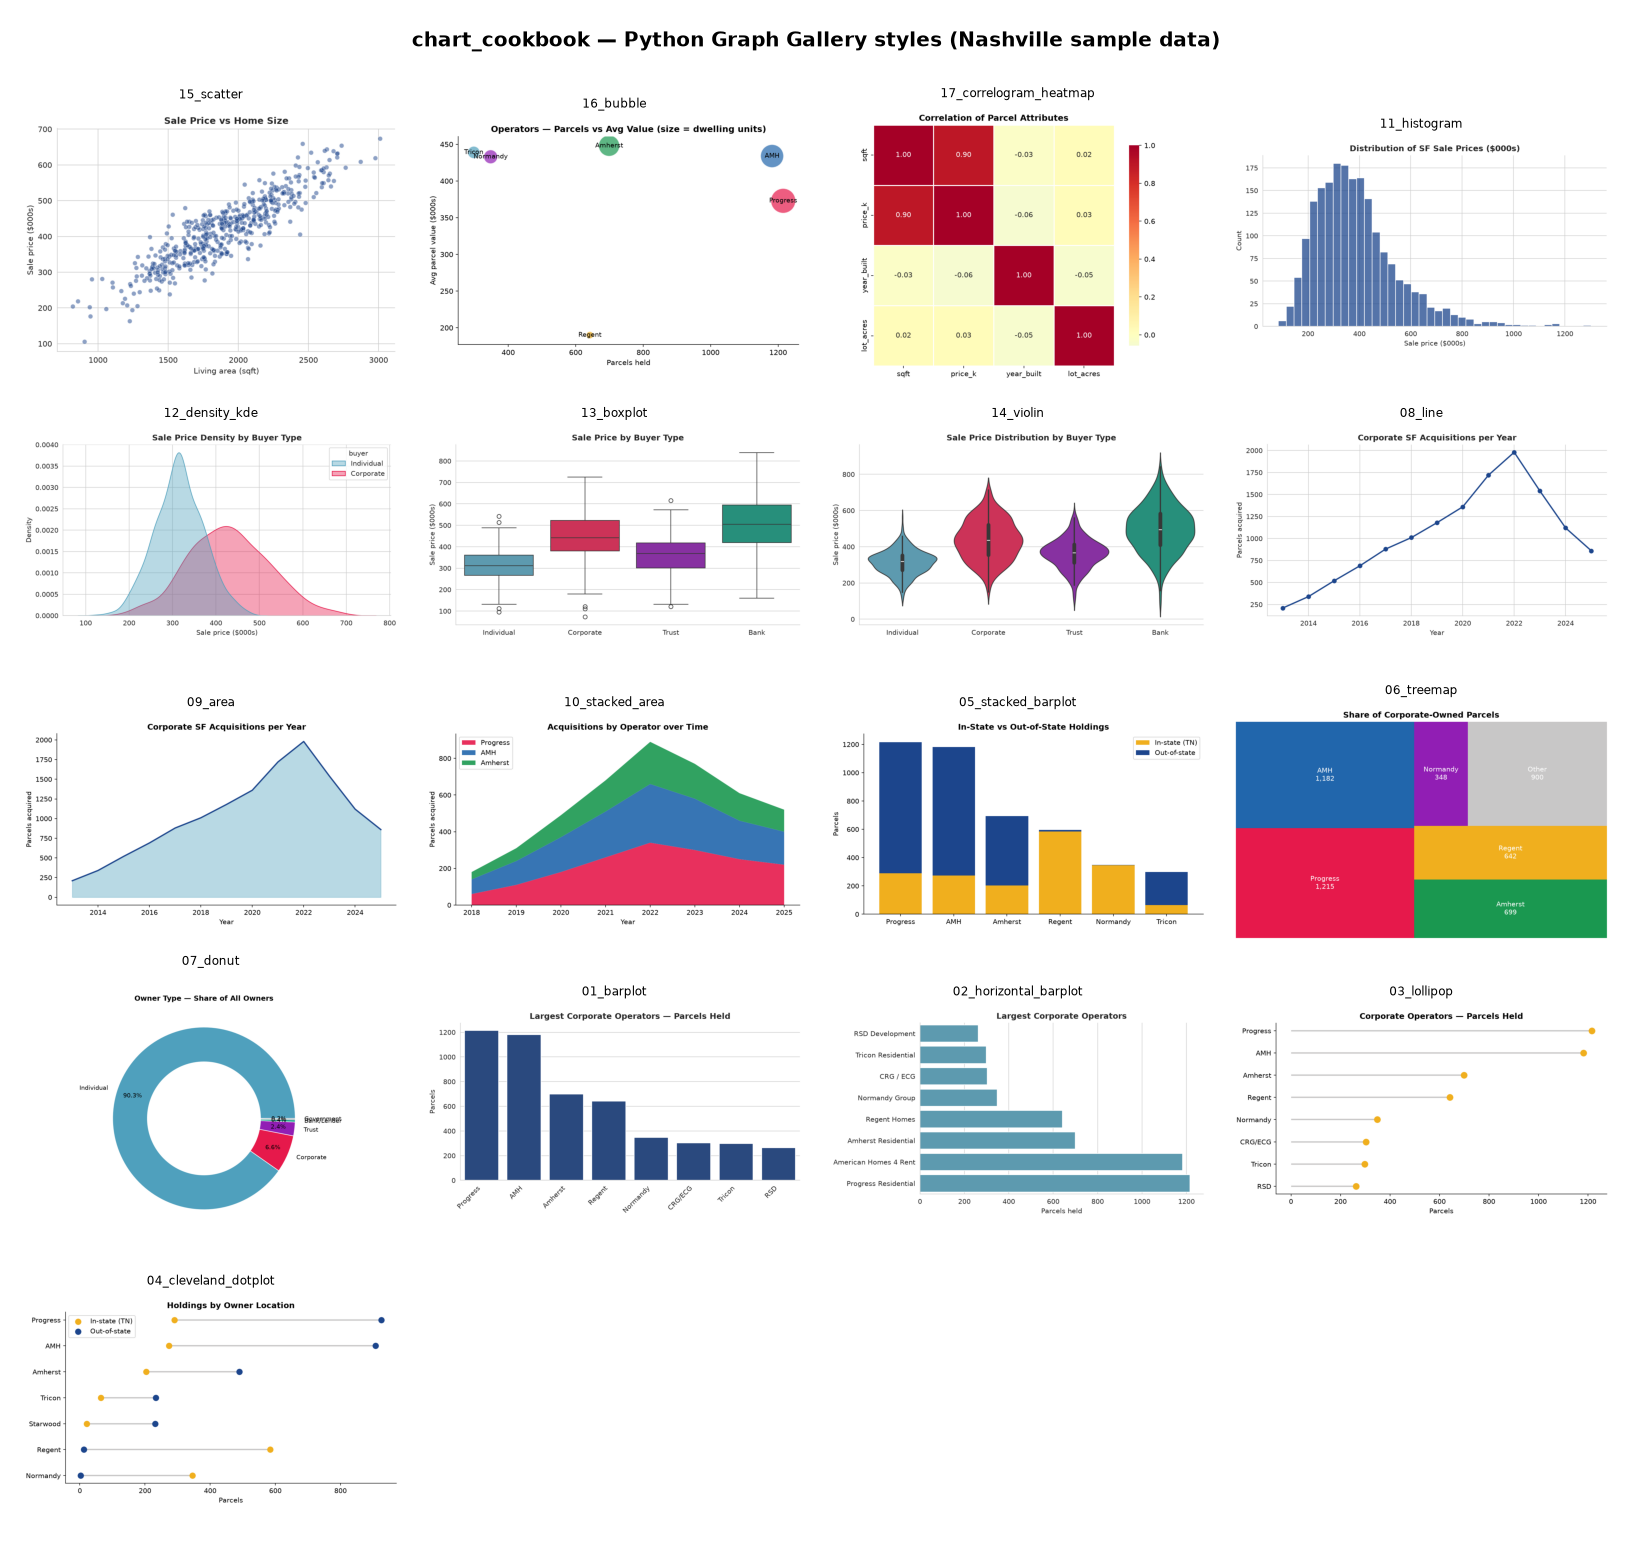
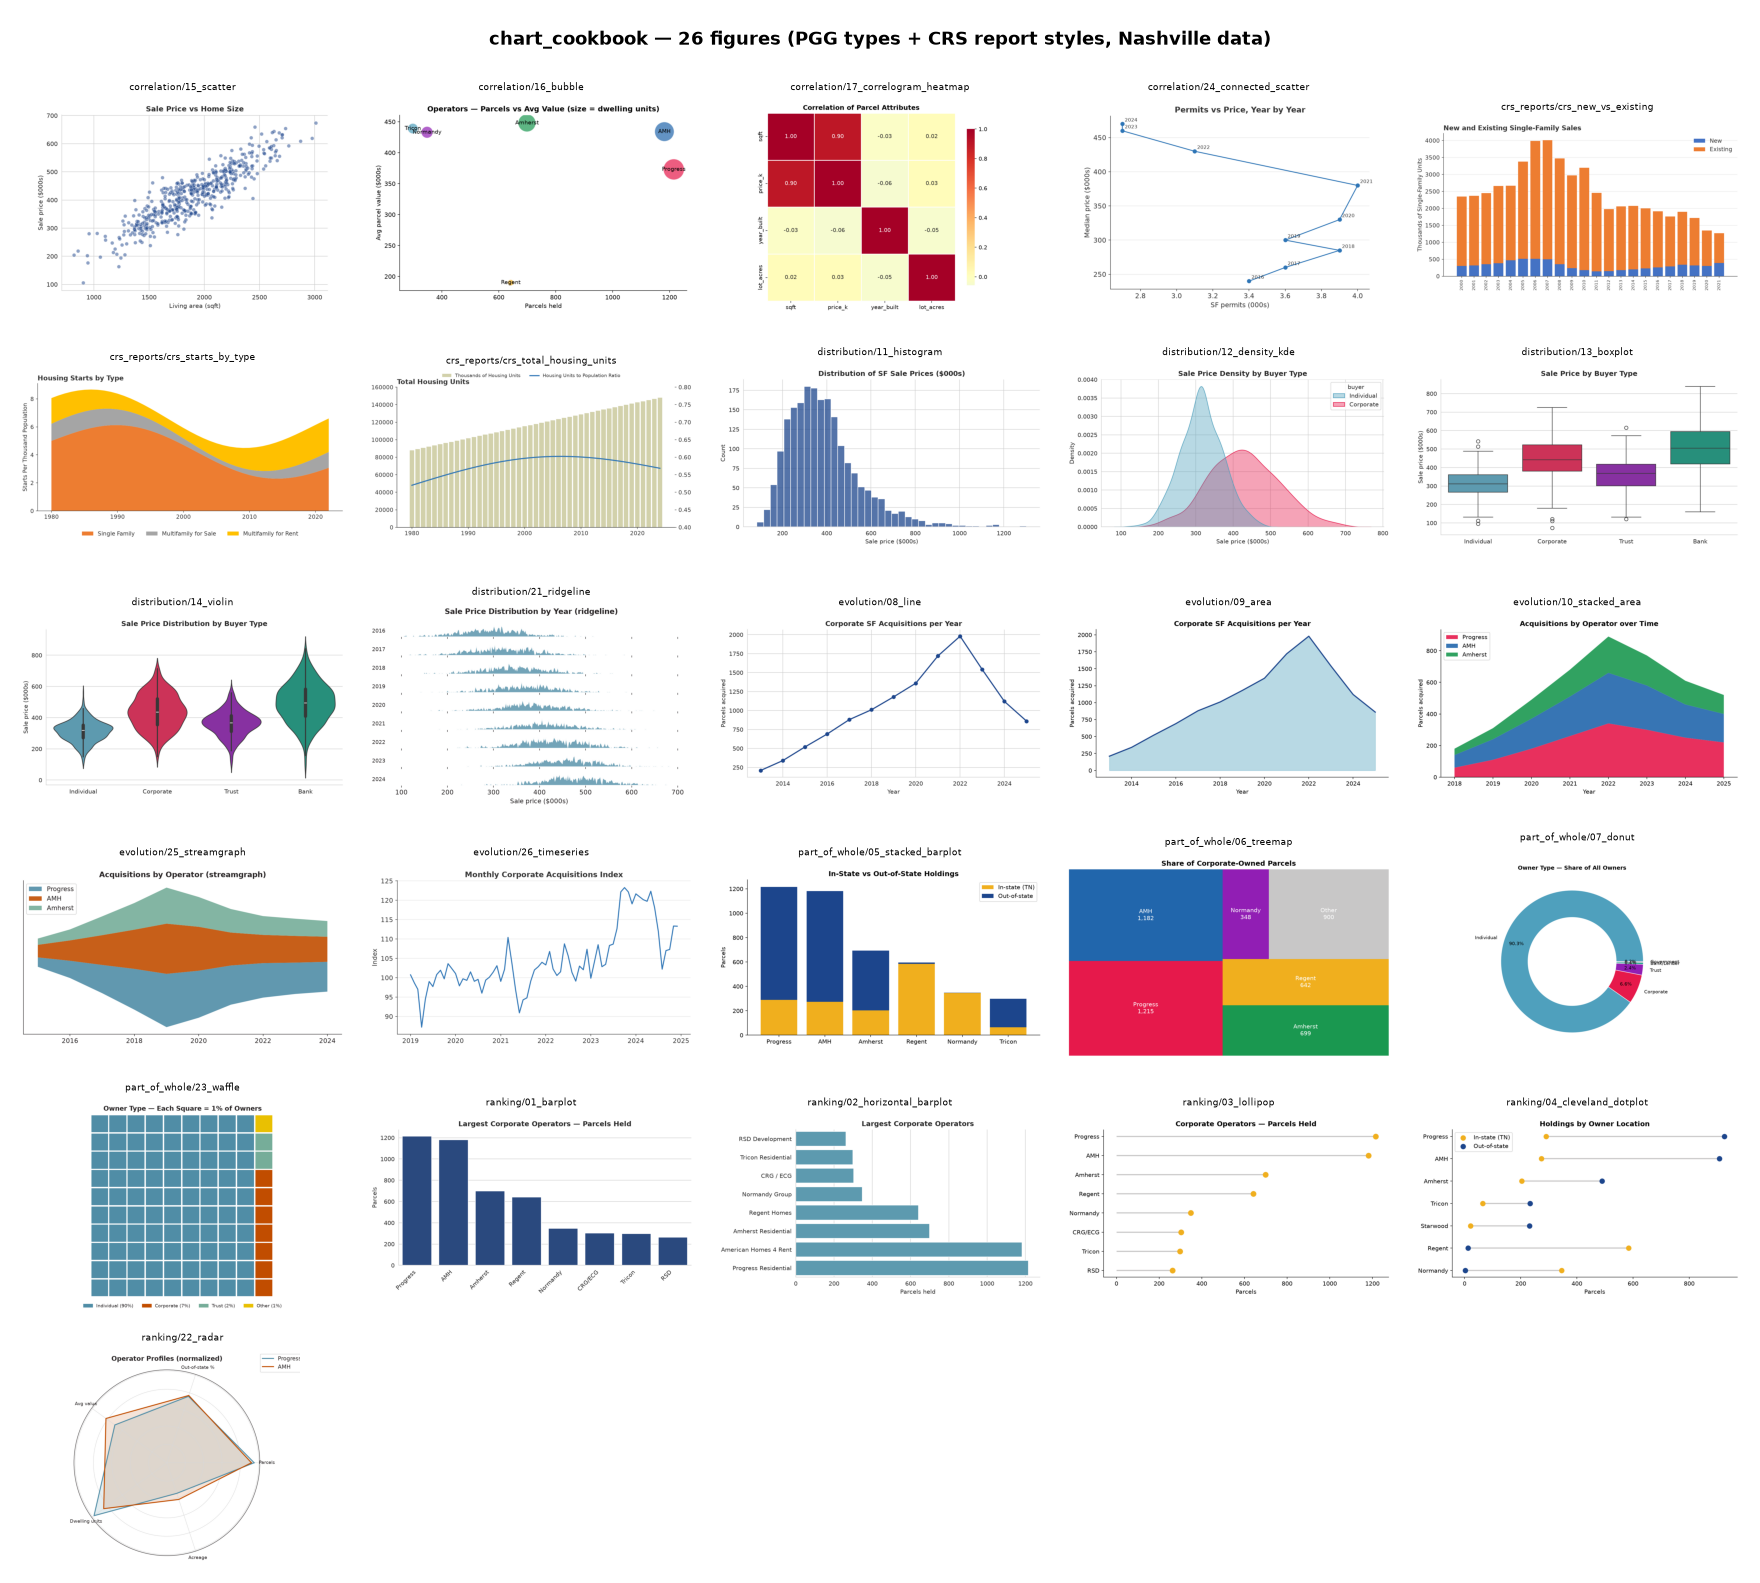
Expand chart_cookbook: house-style palettes, CRS figures, more chart types
- styles/won_styles.py: apply_style() with WON, HUD, JCHS (slate/orange/
  sage/mustard/plum) and CRS (steel/orange/tan) palettes + choropleth ramps.
- style_showcase.py: same charts across all palettes.
- python/crs_reports/: three signature CRS figures (total housing units with
  tan bars + ratio line, new-vs-existing stacked, starts-by-type area).
- 6 more PGG types: ridgeline, radar, waffle, connected scatter, streamgraph,
  timeseries. All 10 new scripts verified to render.

Claude-Session: https://claude.ai/code/session_01StgzA76LHz6w6vbXa78ZFR

diff --git a/chart_cookbook/styles/won_styles.py b/chart_cookbook/styles/won_styles.py
@@ -1,0 +1,84 @@
+"""
+Shared house-style palettes for the chart cookbook.
+
+Four styles are available; call apply_style(name) at the top of any script,
+BEFORE creating the figure, to set the matplotlib rcParams + color cycle:
+
+    from styles.won_styles import apply_style, palette
+    apply_style("jchs")            # or "crs", "won", "hud"
+    colors = palette("jchs")
+
+Styles
+------
+- "won"  : Who Owns Nashville brand (navy #1c458c + gold #f0af1e).
+- "hud"  : HUD county-chart look (grey card, dark plot frame, sans-serif).
+- "jchs" : Harvard Joint Center for Housing Studies (slate blue + burnt orange
+           + sage + mustard + plum). Read from the JCHS OOXML/CSS bundles.
+- "crs"  : Congressional Research Service report figures (Highcharts/Office
+           palette: steel blue, orange, grey, gold; tan bars for stock charts).
+"""
+import matplotlib as mpl
+from cycler import cycler
+
+PALETTES = {
+    # Who Owns Nashville brand + stable per-operator qualitative set
+    "won":  ["#1c458c", "#f0af1e", "#4fa0bd", "#d7263d", "#1a9850", "#911eb4", "#16a085", "#cf307a"],
+    # HUD default-theme series colors
+    "hud":  ["#AFD8F8", "#F6BD0F", "#8BBA00", "#1c458c", "#d7263d", "#5A5A5A"],
+    # Harvard JCHS core palette (ranked by use across 19 decks)
+    "jchs": ["#508DA6", "#C14D00", "#76AD99", "#E9C002", "#653052", "#002060", "#5A5A5A"],
+    # CRS / congress.gov Highcharts (Office-family) palette
+    "crs":  ["#2E75B6", "#ED7D31", "#A5A5A5", "#FFC000", "#4472C4", "#70AD47", "#C00000"],
+}
+
+# A few named accents scripts may want by hand
+ACCENTS = {
+    "jchs_slate": "#508DA6", "jchs_orange": "#C14D00", "jchs_sage": "#76AD99",
+    "jchs_mustard": "#E9C002", "jchs_plum": "#653052", "jchs_ink": "#231F20",
+    "crs_tan": "#D2D1AB", "crs_blue": "#2E75B6", "crs_orange": "#ED7D31",
+    "won_navy": "#1c458c", "won_gold": "#f0af1e",
+}
+
+# JCHS sequential ramps for choropleths (from the interactive bundles)
+RAMPS = {
+    "jchs_blue":   ["#D6E5EB", "#93BACB", "#659DB5", "#4E7686", "#507687"],
+    "jchs_orange": ["#F3C669", "#F09E3D", "#F89F5C", "#EA7923", "#C14D00"],
+    "won_ylorbr":  ["#ffffd4", "#fee391", "#fec44f", "#fe9929", "#cc4c02"],
+    "won_blues":   ["#eff3ff", "#bdd7e7", "#6baed6", "#3182bd", "#08519c"],
+}
+
+_TEXT = {"jchs": "#231F20", "crs": "#333333", "won": "#20303f", "hud": "#333333"}
+_GRID = {"jchs": "#D9D9D9", "crs": "#e6e6e6", "won": "#d6ddea", "hud": "#e6e6e6"}
+
+
+def palette(name="won"):
+    """Return the ordered list of series colors for a style."""
+    return list(PALETTES[name])
+
+
+def apply_style(name="won"):
+    """Set matplotlib rcParams + color cycle for the named house style."""
+    ink = _TEXT.get(name, "#333333")
+    grid = _GRID.get(name, "#e6e6e6")
+    mpl.rcParams.update({
+        "axes.prop_cycle": cycler(color=PALETTES[name]),
+        "figure.facecolor": "#ffffff",
+        "axes.facecolor": "#ffffff",
+        "axes.edgecolor": ink,
+        "axes.labelcolor": ink,
+        "axes.titlecolor": ink,
+        "axes.titleweight": "bold",
+        "axes.grid": True,
+        "axes.grid.axis": "y",
+        "grid.color": grid,
+        "grid.linewidth": 0.8,
+        "axes.spines.top": False,
+        "axes.spines.right": False,
+        "text.color": ink,
+        "xtick.color": ink,
+        "ytick.color": ink,
+        "font.size": 11,
+        "font.family": "sans-serif",
+        "font.sans-serif": ["Helvetica Neue", "Arial", "DejaVu Sans"],
+    })
+    return palette(name)

diff --git a/chart_cookbook/style_showcase.py b/chart_cookbook/style_showcase.py
@@ -1,0 +1,25 @@
+"""Renders the same bar, line, and stacked-bar in three house styles
+(WON, JCHS, CRS) so you can compare the color systems side by side."""
+import matplotlib; matplotlib.use("Agg")
+import os, sys; sys.path.insert(0, os.path.dirname(__file__))
+import matplotlib.pyplot as plt, numpy as np
+from styles.won_styles import palette
+styles = ["won", "jchs", "crs"]; titles = {"won":"Who Owns Nashville","jchs":"Harvard JCHS","crs":"CRS report"}
+ops = ["Progress","AMH","Amherst","Regent"]; par = [1215,1182,699,642]
+yrs = list(range(2018, 2025)); line = [880,1010,1180,1360,1720,1980,1540]
+tn = [290,274,204,584]; oos = [925,908,490,12]
+fig, axes = plt.subplots(3, 3, figsize=(12, 9))
+for r, st in enumerate(styles):
+    c = palette(st)
+    a0, a1, a2 = axes[r]
+    a0.bar(ops, par, color=c[0]); a0.set_title(f"{titles[st]} — bar", fontsize=10, fontweight="bold")
+    a1.plot(yrs, line, color=c[1] if st!='crs' else c[0], lw=2, marker="o"); a1.set_title("line", fontsize=10)
+    a2.bar(ops, tn, color=c[3] if st=='won' else c[0]); a2.bar(ops, oos, bottom=tn, color=c[0] if st=='won' else c[1])
+    a2.set_title("stacked", fontsize=10)
+    for a in axes[r]:
+        a.tick_params(labelsize=8)
+        for s in ["top","right"]: a.spines[s].set_visible(False)
+        a.grid(axis="y", color="#e6e6e6")
+        for lab in a.get_xticklabels(): lab.set_rotation(30); lab.set_ha("right")
+fig.suptitle("House-style comparison — same data, three palettes", fontsize=13, fontweight="bold")
+plt.tight_layout(rect=[0,0,1,.97]); plt.savefig("figures/style_showcase.png", dpi=130)

diff --git a/chart_cookbook/python/crs_reports/crs_new_vs_existing.py b/chart_cookbook/python/crs_reports/crs_new_vs_existing.py
@@ -1,0 +1,22 @@
+"""CRS 'New vs Existing Homes' style: stacked bars, blue = New, orange = Existing.
+For Davidson: split each year's SF sales by parcel year-built vs sale year
+(new = built within ~1-2 yrs of the transfer)."""
+import matplotlib; matplotlib.use("Agg")
+import sys, os; sys.path.insert(0, os.path.join(os.path.dirname(__file__), "..", ".."))
+import matplotlib.pyplot as plt, numpy as np
+from styles.won_styles import apply_style, palette
+apply_style("crs"); c = palette("crs")
+yrs = np.arange(2000, 2022)
+existing = np.array([2050,2050,2100,2280,2200,2870,3480,3510,3120,2730,3020,2320,
+                     1830,1880,1870,1770,1650,1470,1560,1400,1050,880])
+new =      np.array([300,320,350,380,470,510,510,500,350,240,180,140,150,180,200,
+                     230,260,290,340,320,300,390])
+fig, ax = plt.subplots(figsize=(9, 4.8))
+ax.bar(yrs, new, color=c[4], label="New")
+ax.bar(yrs, existing, bottom=new, color=c[1], label="Existing")
+ax.set_ylabel("Thousands of Single-Family Units")
+ax.set_title("New and Existing Single-Family Sales", fontweight="bold", loc="left")
+ax.legend(loc="upper right", frameon=False); ax.grid(False); ax.set_axisbelow(True)
+ax.yaxis.grid(True, color="#e6e6e6")
+plt.xticks(yrs, rotation=90, fontsize=8)
+plt.tight_layout(); plt.savefig("crs_new_vs_existing.png", dpi=150)

diff --git a/chart_cookbook/python/crs_reports/crs_total_housing_units.py b/chart_cookbook/python/crs_reports/crs_total_housing_units.py
@@ -1,0 +1,20 @@
+"""CRS 'Total Housing Units' style (R48892 Fig 1): tan bars for the level,
+blue line for the units-to-population ratio on a right axis. Dual-axis.
+Swap the sample series for Davidson totals + population."""
+import matplotlib; matplotlib.use("Agg")
+import sys, os; sys.path.insert(0, os.path.join(os.path.dirname(__file__), "..", ".."))
+import matplotlib.pyplot as plt, numpy as np
+from styles.won_styles import apply_style, ACCENTS
+apply_style("crs")
+yrs = np.arange(1980, 2025)
+units = np.linspace(88, 148, len(yrs)) * 1000            # thousands
+ratio = 0.52 + 0.06*np.sin(np.linspace(0, 3, len(yrs))) + np.linspace(0, .04, len(yrs))
+fig, ax = plt.subplots(figsize=(9, 4.6))
+ax.bar(yrs, units, color=ACCENTS["crs_tan"], width=.8, label="Thousands of Housing Units")
+ax.set_ylabel(""); ax.set_ylim(0, 160000); ax.grid(False)
+ax2 = ax.twinx()
+ax2.plot(yrs, ratio, color=ACCENTS["crs_blue"], lw=2.2, label="Housing Units to Population Ratio")
+ax2.set_ylim(0.4, 0.8); ax2.grid(False)
+ax.set_title("Total Housing Units", fontweight="bold", loc="left")
+fig.legend(loc="upper center", ncol=2, frameon=False, fontsize=9, bbox_to_anchor=(.5, 1.02))
+plt.tight_layout(); plt.savefig("crs_total_housing_units.png", dpi=150)

diff --git a/chart_cookbook/python/crs_reports/crs_starts_by_type.py b/chart_cookbook/python/crs_reports/crs_starts_by_type.py
@@ -1,0 +1,21 @@
+"""CRS/HUD 'Housing Starts by Type' style: stacked area, orange=SF,
+grey=MF for sale, gold=MF for rent, per 1,000 population."""
+import matplotlib; matplotlib.use("Agg")
+import sys, os; sys.path.insert(0, os.path.join(os.path.dirname(__file__), "..", ".."))
+import matplotlib.pyplot as plt, numpy as np
+from styles.won_styles import apply_style, palette
+apply_style("crs"); c = palette("crs")
+yrs = np.arange(1980, 2023)
+n = len(yrs); rng = np.random.default_rng(4)
+sf = 5 + 1.5*np.sin(np.linspace(0, 6, n)) - np.linspace(0, 1.5, n)
+sf = np.clip(sf, 1.8, None)
+mfs = np.clip(0.8 + 0.5*np.sin(np.linspace(1, 7, n)), 0.2, None)
+mfr = np.clip(1.2 + 0.7*np.sin(np.linspace(2, 8, n)) + np.linspace(0, .5, n), 0.3, None)
+fig, ax = plt.subplots(figsize=(9, 4.8))
+ax.stackplot(yrs, sf, mfs, mfr, colors=[c[1], c[2], c[3]],
+             labels=["Single Family", "Multifamily for Sale", "Multifamily for Rent"])
+ax.set_ylabel("Starts Per Thousand Population")
+ax.set_title("Housing Starts by Type", fontweight="bold", loc="left")
+ax.legend(loc="upper center", ncol=3, frameon=False, bbox_to_anchor=(.5, -.12))
+ax.grid(False)
+plt.tight_layout(); plt.savefig("crs_starts_by_type.png", dpi=150)

diff --git a/chart_cookbook/python/part_of_whole/23_waffle.py b/chart_cookbook/python/part_of_whole/23_waffle.py
@@ -1,0 +1,21 @@
+"""Waffle — PART OF WHOLE. Share of a total as a 10x10 grid of squares."""
+import matplotlib; matplotlib.use("Agg")
+import sys, os; sys.path.insert(0, os.path.join(os.path.dirname(__file__), "..", ".."))
+import matplotlib.pyplot as plt, numpy as np
+from styles.won_styles import apply_style, palette
+apply_style("jchs"); c = palette("jchs")
+cats = ["Individual", "Corporate", "Trust", "Other"]; shares = [90, 7, 2, 1]
+grid = np.zeros((10, 10), int); idx = 0
+for ci, n in enumerate(shares):
+    for _ in range(n):
+        grid[idx % 10, idx // 10] = ci; idx += 1
+fig, ax = plt.subplots(figsize=(6.5, 6))
+for x in range(10):
+    for y in range(10):
+        ax.add_patch(plt.Rectangle((x, y), .9, .9, color=c[grid[y, x]]))
+ax.set_xlim(0, 10); ax.set_ylim(0, 10); ax.set_aspect("equal"); ax.axis("off")
+ax.set_title("Owner Type — Each Square = 1% of Owners", fontweight="bold")
+handles = [plt.Rectangle((0,0),1,1,color=c[i]) for i in range(len(cats))]
+ax.legend(handles, [f"{l} ({s}%)" for l,s in zip(cats,shares)], loc="upper center",
+          bbox_to_anchor=(.5,-.02), ncol=4, frameon=False, fontsize=9)
+plt.tight_layout(); plt.savefig("23_waffle.png", dpi=150)

diff --git a/chart_cookbook/python/ranking/22_radar.py b/chart_cookbook/python/ranking/22_radar.py
@@ -1,0 +1,17 @@
+"""Radar / spider — RANKING. One or two entities across several metrics."""
+import matplotlib; matplotlib.use("Agg")
+import sys, os; sys.path.insert(0, os.path.join(os.path.dirname(__file__), "..", ".."))
+import matplotlib.pyplot as plt, numpy as np
+from styles.won_styles import apply_style, palette
+apply_style("jchs"); c = palette("jchs")
+labels = ["Parcels", "Out-of-state %", "Avg value", "Dwelling units", "Acreage"]
+prog = [0.95, 0.76, 0.70, 0.98, 0.35]; amh = [0.92, 0.77, 0.82, 0.85, 0.42]
+ang = np.linspace(0, 2*np.pi, len(labels), endpoint=False).tolist(); ang += ang[:1]
+fig, ax = plt.subplots(figsize=(6.5, 6), subplot_kw=dict(polar=True))
+for vals, name, col in [(prog, "Progress", c[0]), (amh, "AMH", c[1])]:
+    v = vals + vals[:1]
+    ax.plot(ang, v, color=col, lw=2, label=name); ax.fill(ang, v, color=col, alpha=.15)
+ax.set_xticks(ang[:-1]); ax.set_xticklabels(labels, fontsize=9); ax.set_yticklabels([])
+ax.set_title("Operator Profiles (normalized)", fontweight="bold", pad=18)
+ax.legend(loc="upper right", bbox_to_anchor=(1.25, 1.1), frameon=True)
+plt.tight_layout(); plt.savefig("22_radar.png", dpi=150)

diff --git a/chart_cookbook/python/distribution/21_ridgeline.py b/chart_cookbook/python/distribution/21_ridgeline.py
@@ -1,0 +1,19 @@
+"""Ridgeline — DISTRIBUTION. Many groups' distributions stacked (price per year)."""
+import matplotlib; matplotlib.use("Agg")
+import sys, os; sys.path.insert(0, os.path.join(os.path.dirname(__file__), "..", ".."))
+import matplotlib.pyplot as plt, numpy as np
+from styles.won_styles import apply_style
+apply_style("jchs")
+rng = np.random.default_rng(1); years = list(range(2016, 2025))
+fig, axes = plt.subplots(len(years), 1, figsize=(8, 5), sharex=True)
+xs = np.linspace(100, 700, 300)
+for i, (ax, yr) in enumerate(zip(axes, years)):
+    mu = 300 + i*22; d = rng.normal(mu, 70, 800)
+    from numpy import histogram
+    h, e = histogram(d, bins=xs, density=True)
+    ax.fill_between(e[:-1], h, color="#508DA6", alpha=.8, lw=.8, edgecolor="white")
+    ax.set_yticks([]); ax.set_ylabel(str(yr), rotation=0, ha="right", va="center", fontsize=9)
+    for s in ax.spines.values(): s.set_visible(False)
+axes[-1].set_xlabel("Sale price ($000s)")
+fig.suptitle("Sale Price Distribution by Year (ridgeline)", fontweight="bold")
+plt.tight_layout(); plt.savefig("21_ridgeline.png", dpi=150)

diff --git a/chart_cookbook/python/evolution/26_timeseries.py b/chart_cookbook/python/evolution/26_timeseries.py
@@ -1,0 +1,16 @@
+"""Timeseries — EVOLUTION. Proper datetime x-axis with monthly data."""
+import matplotlib; matplotlib.use("Agg")
+import sys, os; sys.path.insert(0, os.path.join(os.path.dirname(__file__), "..", ".."))
+import matplotlib.pyplot as plt, pandas as pd, numpy as np
+import matplotlib.dates as mdates
+from styles.won_styles import apply_style, palette
+apply_style("crs"); c = palette("crs")
+idx = pd.date_range("2019-01-01", "2024-12-01", freq="MS")
+rng = np.random.default_rng(2)
+val = 100 + np.cumsum(rng.normal(0, 4, len(idx)))
+s = pd.Series(val, index=idx)
+fig, ax = plt.subplots(figsize=(8, 4.5))
+ax.plot(s.index, s.values, color=c[0], lw=1.8)
+ax.xaxis.set_major_locator(mdates.YearLocator()); ax.xaxis.set_major_formatter(mdates.DateFormatter("%Y"))
+ax.set_title("Monthly Corporate Acquisitions Index", fontweight="bold"); ax.set_ylabel("Index")
+plt.tight_layout(); plt.savefig("26_timeseries.png", dpi=150)

diff --git a/chart_cookbook/python/correlation/24_connected_scatter.py b/chart_cookbook/python/correlation/24_connected_scatter.py
@@ -1,0 +1,16 @@
+"""Connected scatter — CORRELATION. Two variables tracked over time (path)."""
+import matplotlib; matplotlib.use("Agg")
+import sys, os; sys.path.insert(0, os.path.join(os.path.dirname(__file__), "..", ".."))
+import matplotlib.pyplot as plt
+from styles.won_styles import apply_style, palette
+apply_style("crs"); c = palette("crs")
+years = list(range(2016, 2025))
+starts = [3.4, 3.6, 3.9, 3.6, 3.9, 4.0, 3.1, 2.7, 2.7]
+price  = [240, 260, 285, 300, 330, 380, 430, 460, 470]
+fig, ax = plt.subplots(figsize=(7, 5))
+ax.plot(starts, price, "-o", color=c[0], lw=1.5)
+for x, y, yr in zip(starts, price, years):
+    ax.annotate(str(yr), (x, y), fontsize=8, xytext=(4, 4), textcoords="offset points")
+ax.set_xlabel("SF permits (000s)"); ax.set_ylabel("Median price ($000s)")
+ax.set_title("Permits vs Price, Year by Year", fontweight="bold")
+plt.tight_layout(); plt.savefig("24_connected_scatter.png", dpi=150)

diff --git a/chart_cookbook/python/evolution/25_streamgraph.py b/chart_cookbook/python/evolution/25_streamgraph.py
@@ -1,0 +1,16 @@
+"""Streamgraph — EVOLUTION. Stacked area with a wiggle baseline (flowing)."""
+import matplotlib; matplotlib.use("Agg")
+import sys, os; sys.path.insert(0, os.path.join(os.path.dirname(__file__), "..", ".."))
+import matplotlib.pyplot as plt, numpy as np
+from styles.won_styles import apply_style, palette
+apply_style("jchs"); c = palette("jchs")
+yrs = np.arange(2015, 2025)
+prog = [60,110,180,260,340,300,250,220,200,190]
+amh  = [80,130,190,250,320,280,210,180,170,160]
+amh2 = [40,70,120,170,230,190,150,120,110,100]
+fig, ax = plt.subplots(figsize=(8, 4.5))
+ax.stackplot(yrs, prog, amh, amh2, labels=["Progress","AMH","Amherst"],
+             colors=c[:3], baseline="wiggle", alpha=.9)
+ax.set_title("Acquisitions by Operator (streamgraph)", fontweight="bold")
+ax.legend(loc="upper left", frameon=True); ax.set_yticks([])
+plt.tight_layout(); plt.savefig("25_streamgraph.png", dpi=150)

diff --git a/chart_cookbook/README.md b/chart_cookbook/README.md
@@ -34,6 +34,32 @@ chart_cookbook/
     cookbook_preview.png   contact sheet of all rendered Python figures
 ```
 
+## House styles (color systems)
+
+`styles/won_styles.py` holds four palettes you can drop onto any script. Call
+`apply_style(name)` before creating the figure:
+
+```python
+import sys, os; sys.path.insert(0, os.path.join(os.path.dirname(__file__), "..", ".."))
+from styles.won_styles import apply_style, palette
+apply_style("jchs")     # "won" | "hud" | "jchs" | "crs"
+```
+
+| Style | Colors | Source |
+|---|---|---|
+| `won`  | navy `#1c458c`, gold `#f0af1e`, blue `#4fa0bd` | Who Owns Nashville brand |
+| `hud`  | HUD default-theme series | HUD county charts |
+| `jchs` | slate `#508DA6`, burnt orange `#C14D00`, sage `#76AD99`, mustard `#E9C002`, plum `#653052` | Harvard Joint Center (State of the Nation's Housing) |
+| `crs`  | steel blue `#2E75B6`, orange `#ED7D31`, grey, gold; tan `#D2D1AB` for stock bars | Congressional Research Service report figures |
+
+`RAMPS` also holds JCHS + WON sequential ramps for choropleths. Run
+`python style_showcase.py` to see the same charts in all styles side by side
+(`figures/style_showcase.png`).
+
+**CRS report figures** (`python/crs_reports/`) rebuild three signature CRS
+looks: `crs_total_housing_units` (tan bars + blue ratio line, dual axis),
+`crs_new_vs_existing` (stacked bars), and `crs_starts_by_type` (stacked area).
+
 ## Running the Python scripts
 
 ```bash
